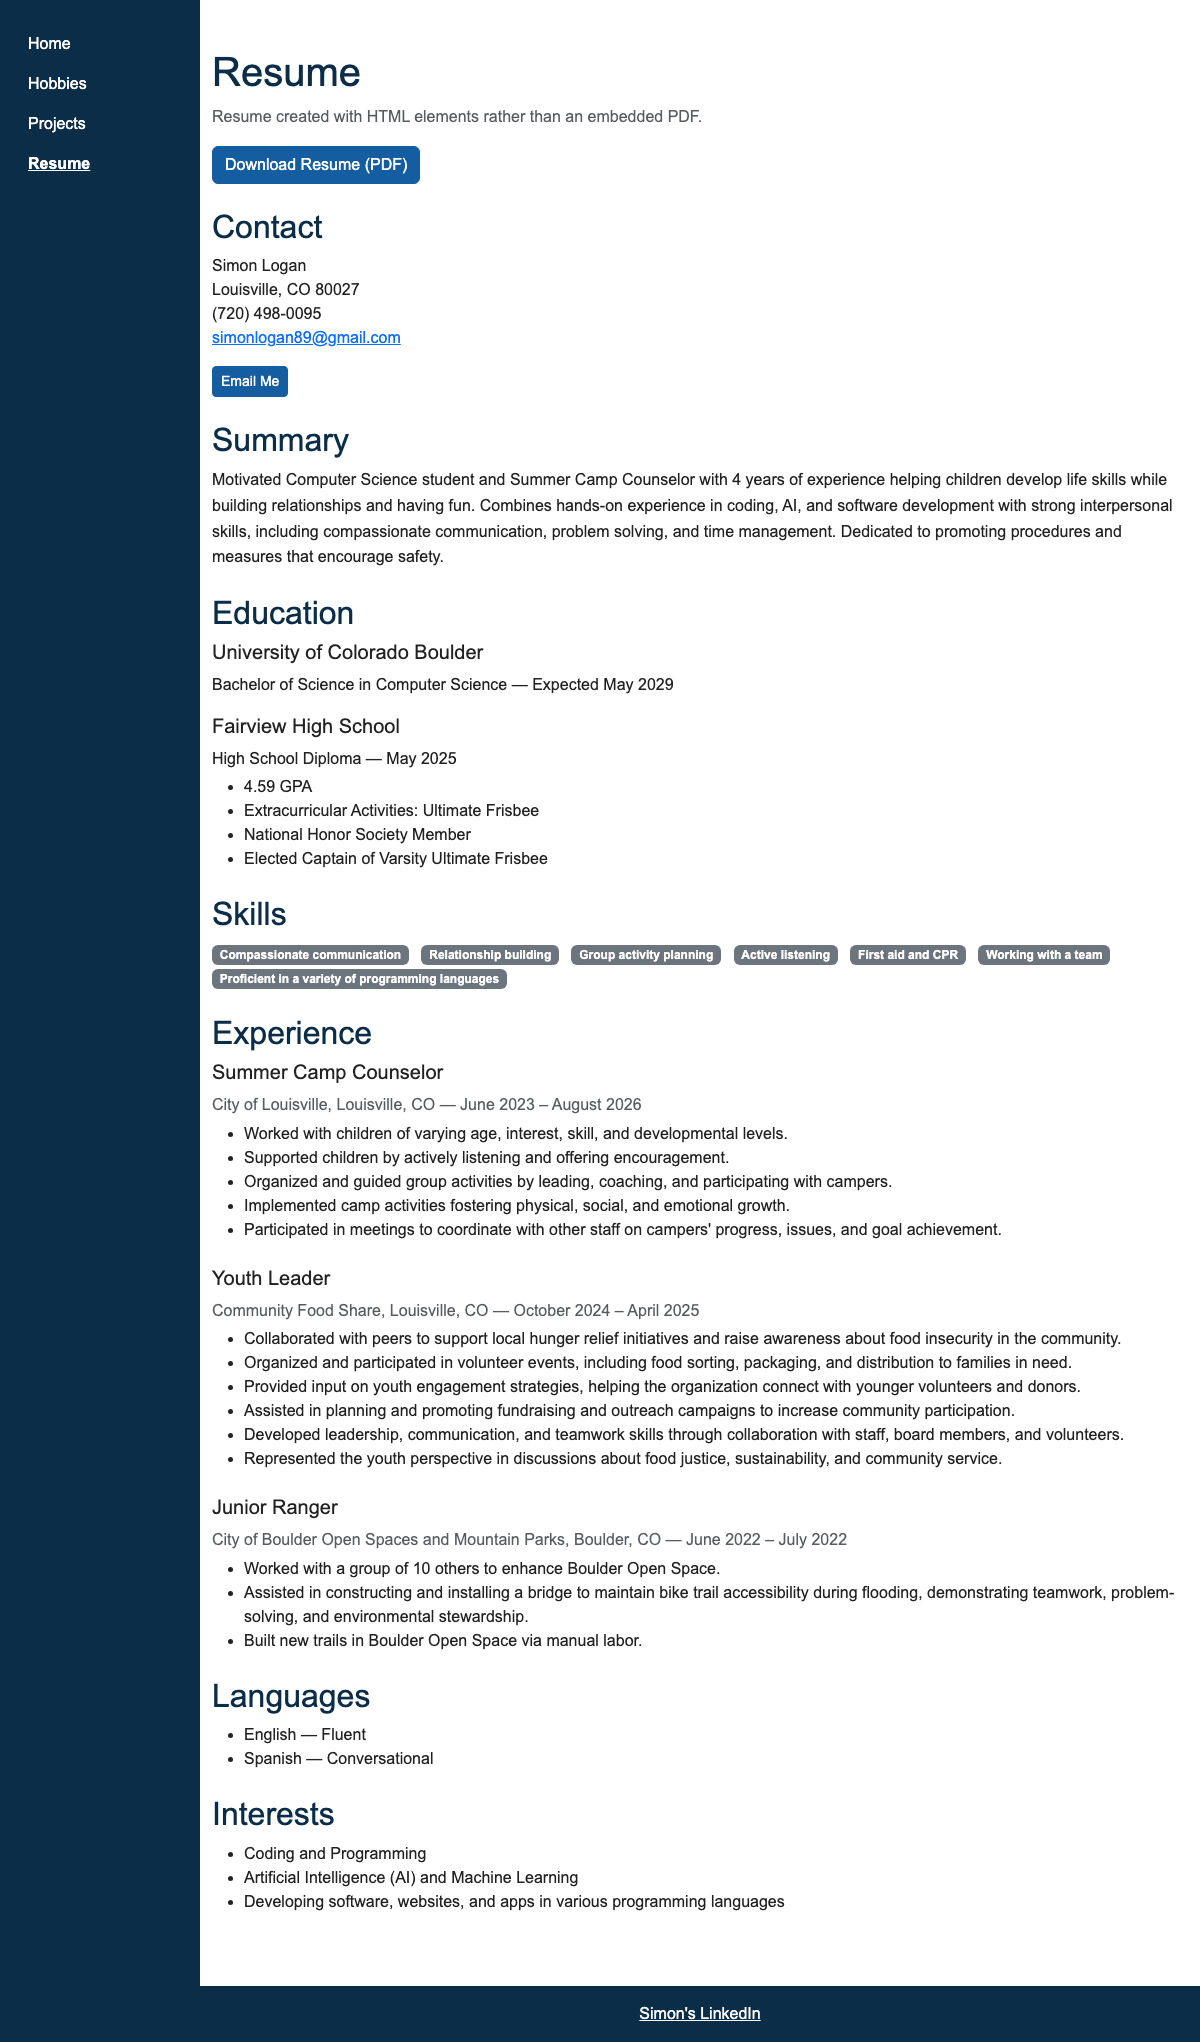
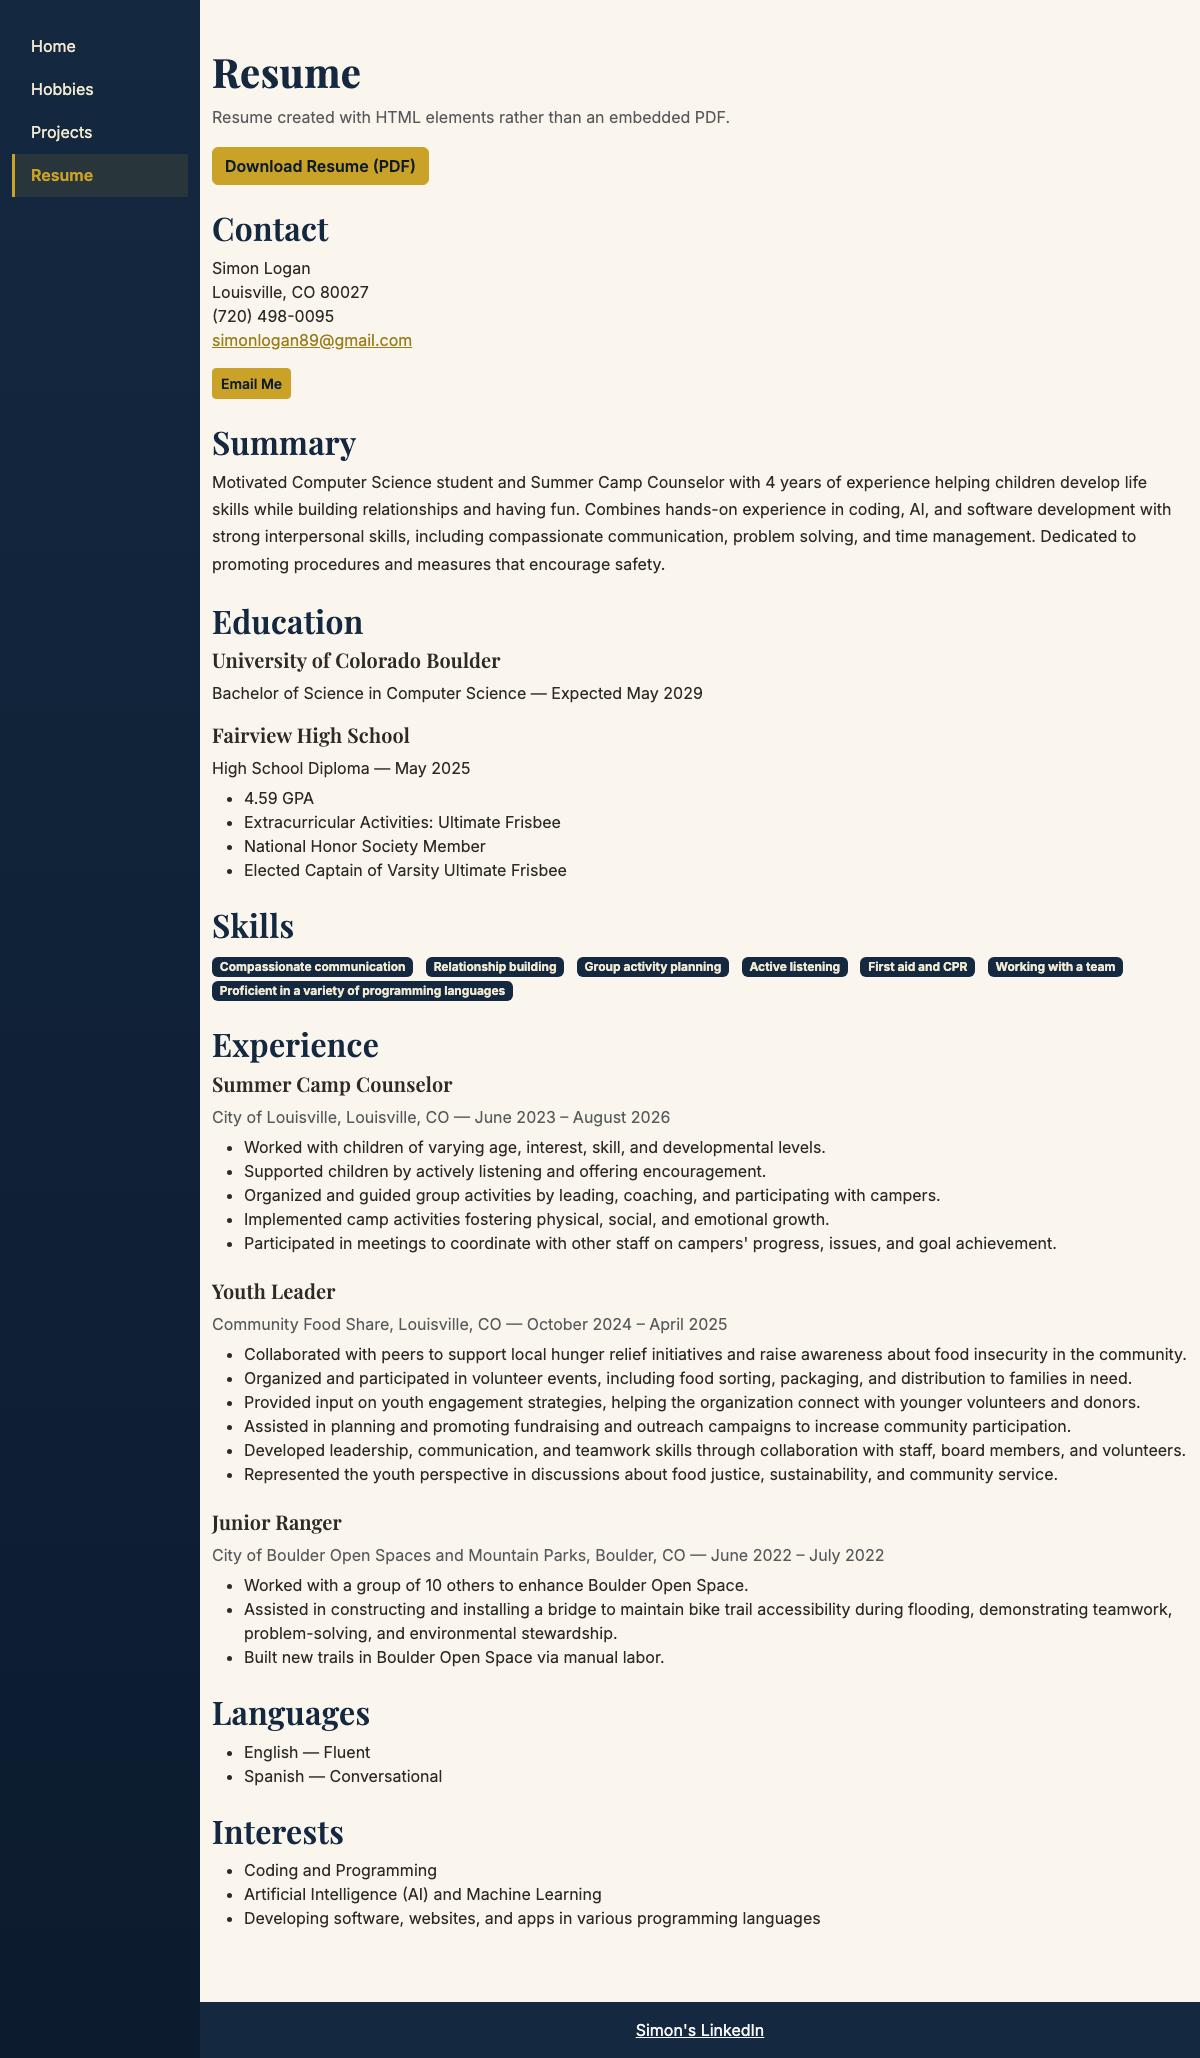
Redesign visual style: warm/professional palette, serif+sans font pairing, real hero photo
Replaces the default Bootstrap look with a navy/gold/cream theme (Playfair
Display headings, Inter body text), swaps the flat placeholder hero box for
a real Flatirons sunrise photo, restyles cards/buttons/accordion/badges to
match, and adds hover animations. Regenerates testLayouts screenshots to
reflect the new design.

Changed region(s): [[0.0, 0.0, 0.9867, 1.0], [0.5242, 0.9873, 0.6475, 1.0], [0.5242, 0.0309, 0.5858, 0.0617]]

diff --git a/resources/css/styles.css b/resources/css/styles.css
@@ -1,63 +1,149 @@
 /* Custom colors and typography used across the whole site */
 :root {
-  --brand-color: #145da0;
-  --brand-dark: #0c2d48;
-  --brand-light: #9fc9e8;
+  --navy: #142840;
+  --navy-dark: #0c1b2e;
+  --gold: #c9a227;
+  --gold-dark: #9c7d1a;
+  --cream: #faf6ee;
+  --card-bg: #fffdf8;
+  --text: #2e2a24;
 }
 
 /* ELEMENT SELECTOR: base typography applied to every paragraph on the site */
 p {
-  line-height: 1.6;
+  line-height: 1.7;
 }
 
 body {
-  font-family: 'Segoe UI', Arial, sans-serif;
-  color: #222;
+  font-family: 'Inter', system-ui, -apple-system, sans-serif;
+  background-color: var(--cream);
+  color: var(--text);
 }
 
 h1, h2, h3 {
-  color: var(--brand-dark);
+  font-family: 'Playfair Display', Georgia, serif;
+  color: var(--navy);
+  letter-spacing: 0.01em;
 }
 
-/* CLASS SELECTOR + border/shadow/border-radius example: styling for the home page hero image */
+h1 {
+  font-weight: 700;
+}
+
+/* General link color, tuned to the warm palette (more specific rules like .nav-link and .btn-* below still win) */
+a {
+  color: var(--gold-dark);
+}
+
+a:hover {
+  color: var(--navy);
+}
+
+/* CLASS SELECTOR + border/shadow/border-radius example: framing and hover lift for the home page hero photo */
 .hero-img {
-  border: 4px solid var(--brand-light);
-  border-radius: 0.75rem;
-  box-shadow: 0 0.5rem 1rem rgba(0, 0, 0, 0.15);
+  border: 4px solid var(--gold);
+  border-radius: 0.5rem;
+  box-shadow: 0 1rem 2rem rgba(20, 40, 64, 0.25);
+  transition: transform 0.3s ease;
 }
 
-/* Margin/padding + border/shadow/border-radius example: custom spacing and framing for every Bootstrap card */
+.hero-img:hover {
+  transform: translateY(-4px);
+}
+
+/* Margin/padding + border/shadow/border-radius example: custom framing and hover lift for every Bootstrap card */
 .card {
   margin-bottom: 0.5rem;
-  padding-bottom: 0.5rem;
-  border: 1px solid #eee;
-  border-radius: 0.5rem;
-  box-shadow: 0 0.25rem 0.5rem rgba(0, 0, 0, 0.08);
+  padding-bottom: 0.25rem;
+  background-color: var(--card-bg);
+  border: none;
+  border-top: 3px solid var(--gold);
+  border-radius: 0.375rem;
+  box-shadow: 0 0.5rem 1rem rgba(20, 40, 64, 0.08);
+  transition: transform 0.2s ease, box-shadow 0.2s ease;
+}
+
+.card:hover {
+  transform: translateY(-6px);
+  box-shadow: 0 1rem 1.75rem rgba(20, 40, 64, 0.15);
+}
+
+.card-title {
+  font-family: 'Playfair Display', Georgia, serif;
 }
 
 /* Sidebar navigation styling to match the sketched wireframe layout (left nav on every page) */
+.sidebar {
+  background: linear-gradient(180deg, var(--navy) 0%, var(--navy-dark) 100%);
+}
+
 .sidebar .nav-link {
+  color: #f1e9d2;
+  padding: 0.6rem 1rem;
+  border-left: 3px solid transparent;
+  transition: background-color 0.2s ease, border-color 0.2s ease;
+}
+
+.sidebar .nav-link:hover {
+  background-color: rgba(201, 162, 39, 0.12);
   color: #fff;
-  padding: 0.5rem 1rem;
 }
 
 .sidebar .nav-link.active {
-  font-weight: bold;
-  text-decoration: underline;
+  font-weight: 600;
+  color: var(--gold);
+  border-left-color: var(--gold);
+  background-color: rgba(201, 162, 39, 0.12);
+  text-decoration: none;
 }
 
-/* OVERRIDE BOOTSTRAP DEFAULT: replace Bootstrap's default primary blue with the site's brand color */
+/* OVERRIDE BOOTSTRAP DEFAULT: replace Bootstrap's default primary blue with the site's gold accent color */
 .btn-primary {
-  background-color: var(--brand-color);
-  border-color: var(--brand-color);
+  background-color: var(--gold);
+  border-color: var(--gold);
+  color: var(--navy-dark);
+  font-weight: 600;
 }
 
 .btn-primary:hover {
-  background-color: var(--brand-dark);
-  border-color: var(--brand-dark);
+  background-color: var(--gold-dark);
+  border-color: var(--gold-dark);
+  color: #fff;
 }
 
-/* OVERRIDE BOOTSTRAP DEFAULT: use the brand color everywhere Bootstrap's bg-dark utility is used (sidebar + footer) */
+.btn-outline-primary {
+  color: var(--gold-dark);
+  border-color: var(--gold);
+}
+
+.btn-outline-primary:hover {
+  background-color: var(--gold);
+  border-color: var(--gold);
+  color: var(--navy-dark);
+}
+
+/* OVERRIDE BOOTSTRAP DEFAULT: use the site's navy instead of Bootstrap's default dark wherever bg-dark is used (sidebar + footer) */
 .bg-dark {
-  background-color: var(--brand-dark) !important;
+  background-color: var(--navy) !important;
+}
+
+/* OVERRIDE BOOTSTRAP DEFAULT: warm the accordion's active-state background/border instead of Bootstrap's default light blue */
+.accordion-button:not(.collapsed) {
+  background-color: rgba(201, 162, 39, 0.12);
+  color: var(--navy);
+  box-shadow: inset 0 -1px 0 var(--gold);
+}
+
+.accordion-button:focus {
+  box-shadow: 0 0 0 0.2rem rgba(201, 162, 39, 0.25);
+}
+
+/* OVERRIDE BOOTSTRAP DEFAULT: recolor the skill/tech badges to match the warm palette instead of Bootstrap's default gray */
+.badge.bg-secondary {
+  background-color: var(--navy) !important;
+  color: #f1e9d2;
+}
+
+footer a {
+  color: #f1e9d2;
 }

diff --git a/views/home.html b/views/home.html
@@ -5,6 +5,9 @@
   <meta name="viewport" content="width=device-width, initial-scale=1">
   <title>Home | Simon Logan</title>
   <link rel="stylesheet" href="https://cdn.jsdelivr.net/npm/bootstrap@5.3.3/dist/css/bootstrap.min.css">
+  <link rel="preconnect" href="https://fonts.googleapis.com">
+  <link rel="preconnect" href="https://fonts.gstatic.com" crossorigin>
+  <link href="https://fonts.googleapis.com/css2?family=Inter:wght@400;500;600;700&family=Playfair+Display:wght@600;700&display=swap" rel="stylesheet">
   <link rel="stylesheet" href="../resources/css/styles.css">
 </head>
 <body>
@@ -49,7 +52,7 @@
               <a href="projects.html" class="btn btn-primary">View My Projects</a>
             </div>
             <div class="col-md-6">
-              <img src="../resources/img/home-hero.svg" alt="Illustration placeholder representing a laptop with code on screen" class="img-fluid hero-img">
+              <img src="../resources/img/home-hero.jpg" alt="The Flatirons rock formations near Boulder, Colorado, lit up gold at sunrise" class="img-fluid hero-img">
             </div>
           </section>
         </main>

diff --git a/views/projects.html b/views/projects.html
@@ -5,6 +5,9 @@
   <meta name="viewport" content="width=device-width, initial-scale=1">
   <title>Projects | Simon Logan</title>
   <link rel="stylesheet" href="https://cdn.jsdelivr.net/npm/bootstrap@5.3.3/dist/css/bootstrap.min.css">
+  <link rel="preconnect" href="https://fonts.googleapis.com">
+  <link rel="preconnect" href="https://fonts.gstatic.com" crossorigin>
+  <link href="https://fonts.googleapis.com/css2?family=Inter:wght@400;500;600;700&family=Playfair+Display:wght@600;700&display=swap" rel="stylesheet">
   <link rel="stylesheet" href="../resources/css/styles.css">
 </head>
 <body>

diff --git a/views/hobbies.html b/views/hobbies.html
@@ -5,6 +5,9 @@
   <meta name="viewport" content="width=device-width, initial-scale=1">
   <title>Hobbies | Simon Logan</title>
   <link rel="stylesheet" href="https://cdn.jsdelivr.net/npm/bootstrap@5.3.3/dist/css/bootstrap.min.css">
+  <link rel="preconnect" href="https://fonts.googleapis.com">
+  <link rel="preconnect" href="https://fonts.gstatic.com" crossorigin>
+  <link href="https://fonts.googleapis.com/css2?family=Inter:wght@400;500;600;700&family=Playfair+Display:wght@600;700&display=swap" rel="stylesheet">
   <link rel="stylesheet" href="../resources/css/styles.css">
 </head>
 <body>

diff --git a/views/resume.html b/views/resume.html
@@ -5,6 +5,9 @@
   <meta name="viewport" content="width=device-width, initial-scale=1">
   <title>Resume | Simon Logan</title>
   <link rel="stylesheet" href="https://cdn.jsdelivr.net/npm/bootstrap@5.3.3/dist/css/bootstrap.min.css">
+  <link rel="preconnect" href="https://fonts.googleapis.com">
+  <link rel="preconnect" href="https://fonts.gstatic.com" crossorigin>
+  <link href="https://fonts.googleapis.com/css2?family=Inter:wght@400;500;600;700&family=Playfair+Display:wght@600;700&display=swap" rel="stylesheet">
   <link rel="stylesheet" href="../resources/css/styles.css">
 </head>
 <body>
